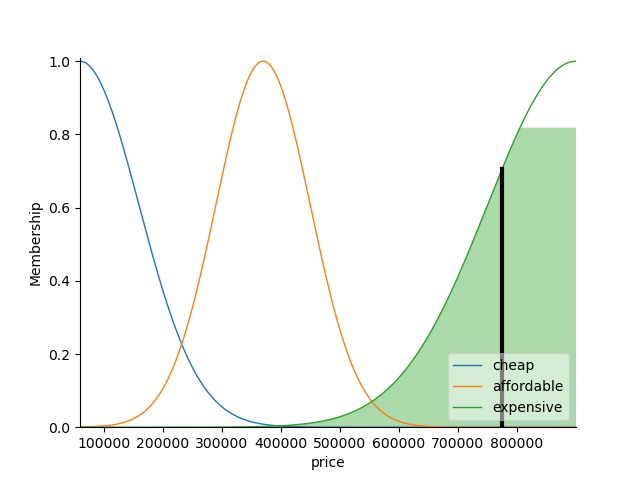
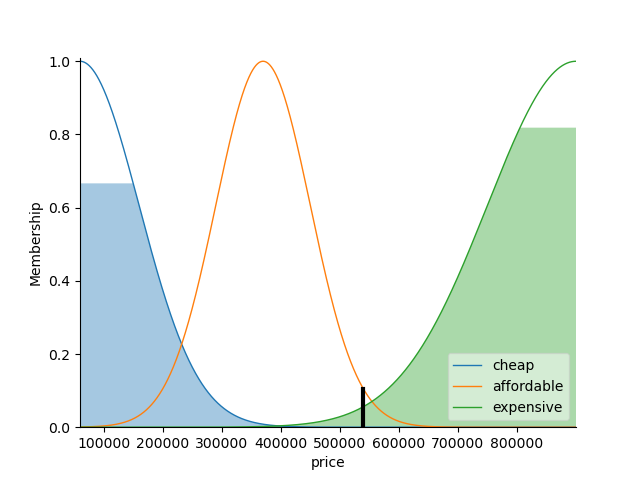
Issawi rules with gui

Changed region(s): [[0.125, 0.375, 0.4062, 0.9062], [0.7812, 0.3438, 0.8125, 0.875], [0.5625, 0.8125, 0.5938, 0.875]]

diff --git a/rules_makers/rule_maker4.py b/rules_makers/rule_maker4.py
@@ -5,24 +5,24 @@ from . import and_rule
 class RulesMaker4:
     def get_rules(self,input_vars,output_var):
         return [
-                ctrl.Rule(input_vars['distance']['far'] & input_vars['amenities']['acceptable']& input_vars['size']['med'] ,output_var['affordable']),
-                ctrl.Rule(input_vars['distance']['far'] & input_vars['amenities']['acceptable']& input_vars['size']['small'] ,output_var['cheap']),
-                ctrl.Rule(input_vars['distance']['far'] & input_vars['amenities']['poor']& input_vars['size']['small'] ,output_var['cheap']),
-                ctrl.Rule(input_vars['distance']['far'] & input_vars['amenities']['good'] & input_vars['size']['med'],output_var['affordable']),
-                ctrl.Rule(input_vars['distance']['far'] & input_vars['amenities']['good'] & input_vars['size']['small'],output_var['affordable']),
+                ctrl.Rule(input_vars['distance']['far'],output_var['cheap']),
+                ctrl.Rule(input_vars['amenities']['poor'],output_var['cheap']),
+                ctrl.Rule(input_vars['size']['small'],output_var['cheap']),
 
                 ctrl.Rule(input_vars['distance']['far'] & input_vars['amenities']['acceptable'] & input_vars['size']['med'],output_var['affordable']),
-
-                ctrl.Rule(input_vars['distance']['close'] & input_vars['amenities']['acceptable'] & input_vars['size']['med'],output_var['expensive']),
-                ctrl.Rule(input_vars['distance']['close'] & input_vars['size']['med'],output_var['expensive']),
-
-                ctrl.Rule(input_vars['distance']['close'] & input_vars['amenities']['good'],output_var['expensive']),
-                ctrl.Rule(input_vars['distance']['close'] & input_vars['amenities']['poor'] & input_vars['size']['large'],output_var['expensive']),
-                ctrl.Rule(input_vars['distance']['close'] & input_vars['amenities']['acceptable'] & input_vars['size']['large'],output_var['expensive']),
-
-                ctrl.Rule(input_vars['distance']['med'] & input_vars['amenities']['good'] & input_vars['size']['large'],output_var['expensive']),
                 ctrl.Rule(input_vars['distance']['med'] & input_vars['amenities']['poor'] & input_vars['size']['med'],output_var['affordable']),
                 ctrl.Rule(input_vars['distance']['med'] & input_vars['amenities']['acceptable'] & input_vars['size']['small'],output_var['affordable']),
+
                 ctrl.Rule(input_vars['distance']['med'] & input_vars['amenities']['acceptable'] & input_vars['size']['med'],output_var['affordable']),
 
+                ctrl.Rule(input_vars['distance']['close'] & input_vars['amenities']['good'] & input_vars['size']['med'],output_var['expensive']),
+                ctrl.Rule(input_vars['distance']['close'] & input_vars['amenities']['acceptable'] & input_vars['size']['large'],output_var['expensive']),
+                ctrl.Rule(input_vars['distance']['med'] & input_vars['amenities']['good'] & input_vars['size']['large'],output_var['expensive']),
+
+
+                ctrl.Rule(input_vars['distance']['close'] & input_vars['amenities']['good'] & input_vars['size']['large'],output_var['expensive']),
+
+                ctrl.Rule(input_vars['distance']['close'],output_var['expensive']),
+                ctrl.Rule(input_vars['amenities']['good'],output_var['expensive']),
+                ctrl.Rule(input_vars['size']['large'],output_var['expensive']),
             ]
